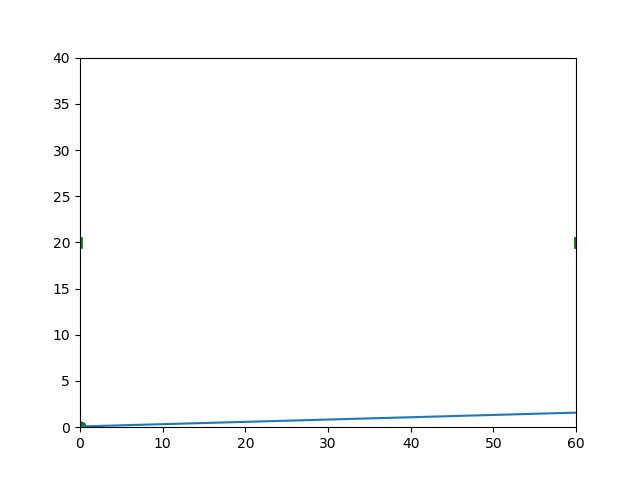
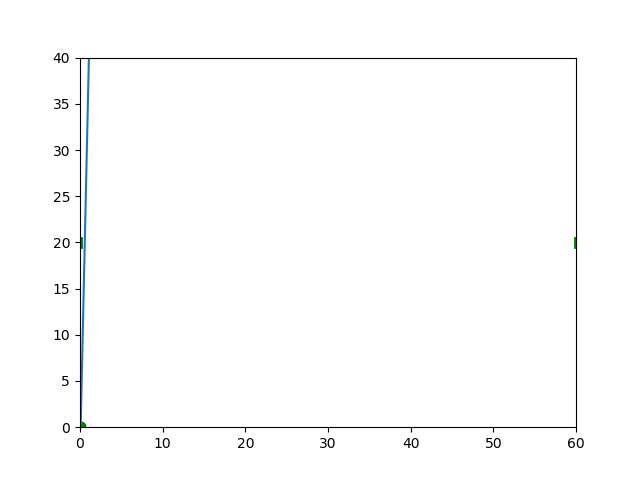
Fixed Angle calculation

Changed region(s): [[0.125, 0.125, 0.1562, 0.7812], [0.5, 0.8438, 0.9062, 0.875], [0.125, 0.875, 0.4688, 0.9062]]

diff --git a/fiz2/phproject2.py b/fiz2/phproject2.py
@@ -26,7 +26,7 @@ GOAL_WIDTH = 1.0
 G = 10.0
 NAMESIN = ["start", "mass", "radius", "friction", "velocity"]
 NAMESOUT = ["stop", "time"]
-DATA = pandas.read_csv("input.txt", sep=';', header=None, names=NAMESIN).transpose()
+DATA = pandas.read_csv("fiz2\\input.txt", sep=';', header=None, names=NAMESIN).transpose()
 
 """ Ice Rink to file """
 def drawRink(start=None):
@@ -48,17 +48,21 @@ class LineMovement:
     def __init__(self, start, v, r, f):
         self.Radius = r
         self.Friction = f
+        self.Begin = start
+        self.setVelocity(v)
+
+    def setVelocity(self, v):
         self.Velocity = v
         self.VNorm = (v[0]**2.0 + v[1]**2.0)**0.5
-        self.Begin = start
-        self.Angle = math.atan(self.Velocity[0] / self.Velocity[1])
-        self.FVector = (f*G*math.cos(self.Angle), f*G*math.sin(self.Angle))
+        if self.Velocity[0] != 0.0:
+            self.Angle = math.atan(self.Velocity[1] / self.Velocity[0])
+        else:
+            self.Angle = math.pi / 2
+        self.FVector = (self.Friction*G*math.cos(self.Angle), self.Friction*G*math.sin(self.Angle))
 
-    def updateV(self, t, b):
-        lim = self.getStopTime()
-        if t > lim:
-            t = lim
-        self.Velocity = self.getVelocity(t)
+    def update(self, t, b):
+        self.Begin = self.getPosition(t)
+        self.setVelocity(self.getVelocity(t))
         if b == 'l':
             self.Velocity = (abs(self.Velocity[0]), self.Velocity[1])
         elif b == 'r':
@@ -72,24 +76,23 @@ class LineMovement:
         return {'l':self.Radius, 'r':ICE[0]-self.Radius, 'b':self.Radius, 't':ICE[1]-self.Radius}
 
     def getHitTime(self):
-        def test(h):
-            if len(h) > 0:
-                pos = self.getPosition(min(h))
-                return pos[0] >= 0 and pos[0] <= ICE[0] and pos[1] >= 0 and pos[1] <= ICE[1]
-            return False
+        def inrange(t):
+            pos = self.getPosition(t)
+            return pos[0] >= 0 and pos[1] >= 0 and pos[0] <= ICE[0] and pos[1] <= ICE[1]
         borders = self.borders()
         x = sympy.Symbol('x', real=True, positive=True)
-        for k in borders.keys():
-            axle = 1 if k in ['t', 'b'] else 0
-            tmphits = sympy.solve(self.getPosition(x + 0.01)[axle] - borders[k], x)
-            hits = []
-            for i in tmphits:
-                if i < self.getStopTime():
-                    hits.append(i)
-            if test(hits):
-                self.updateV(min(hits), k)
-                return min(hits)
-        return 0
+        result = self.getStopTime()
+        bouncewall = None
+        for wall in borders:
+            axle = 0 if wall in ['l', 'r'] else 1
+            solutions = sympy.solve(self.getPosition(x)[axle] - borders[wall], x)
+            if len(solutions) > 0:
+                m = min(solutions)
+                if m < result and inrange(float(m)):
+                    result = float(m)
+                    bouncewall = wall
+        self.update(result, bouncewall)
+        return result
 
     def getVelocity(self, t):
         return (self.Velocity[0] - t*self.FVector[0], self.Velocity[1] - t*self.FVector[1])
@@ -117,18 +120,16 @@ def main(index, fhandle):
     elapsed = 0.0
     inside = True
     # loop every bounce
+    print("Slide duration: {} s".format(finish))
     while elapsed < finish and inside:
         traveltime = sim.getHitTime()
         elapsed += traveltime
-        bounces.append(sim.getPosition(traveltime))
-        if elapsed >= finish or traveltime==0:
-            del bounces[-1]
-            bounces.append(sim.getPosition(sim.getStopTime()))
+        bounces.append(sim.Begin)
+        if traveltime==0:
             break
         else:
             inside = not checkGoal(bounces[-1])
     df = pandas.DataFrame(bounces)
-    print("Slide duration: {} s".format(finish))
     print(df)
     plt.plot(df[0], df[1])
     plt.savefig("{}.png".format(index+1))
